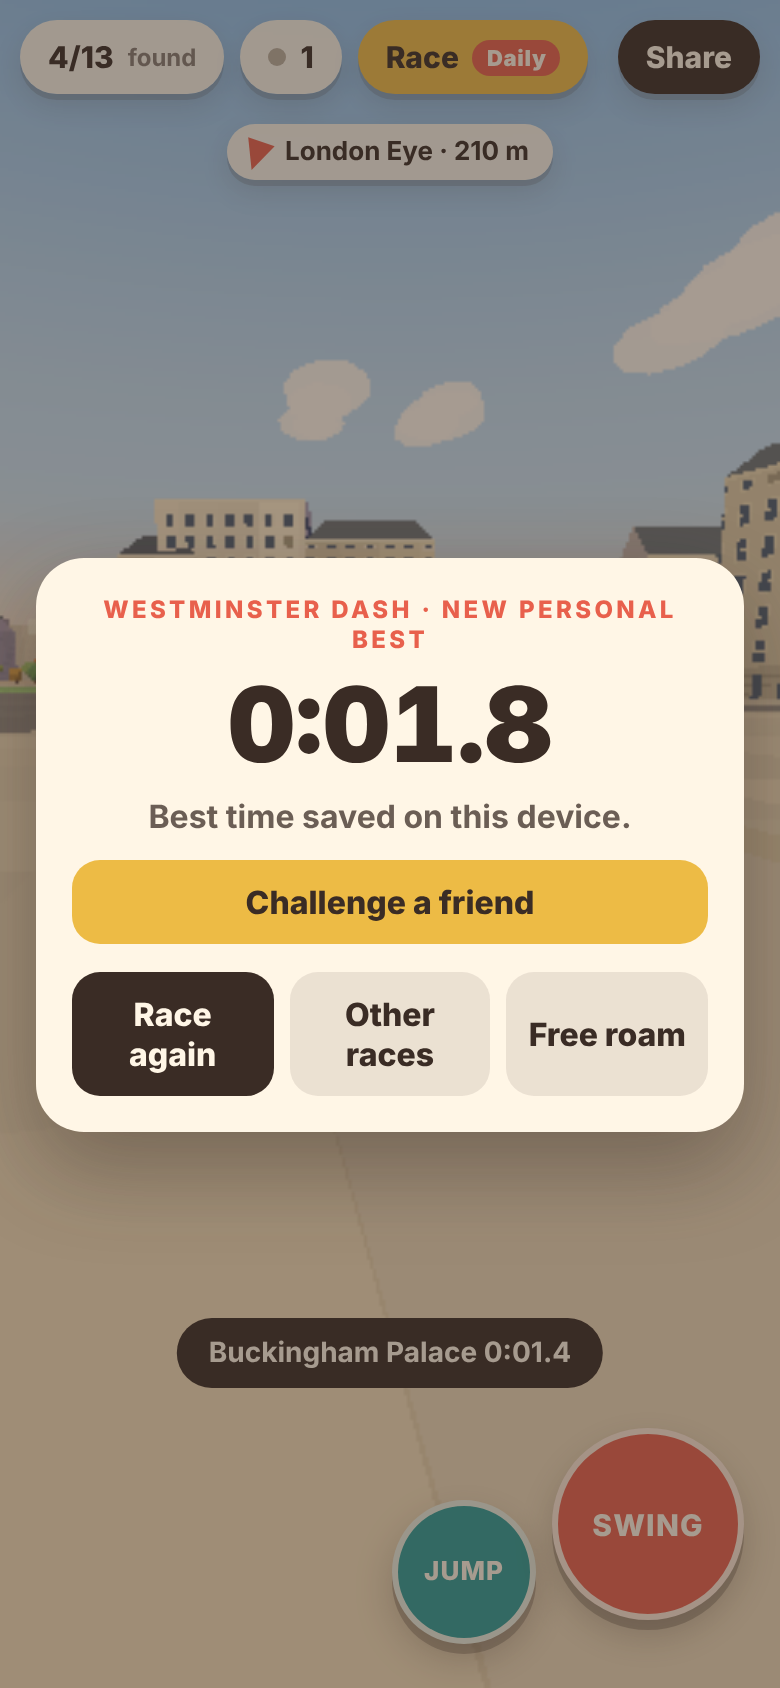
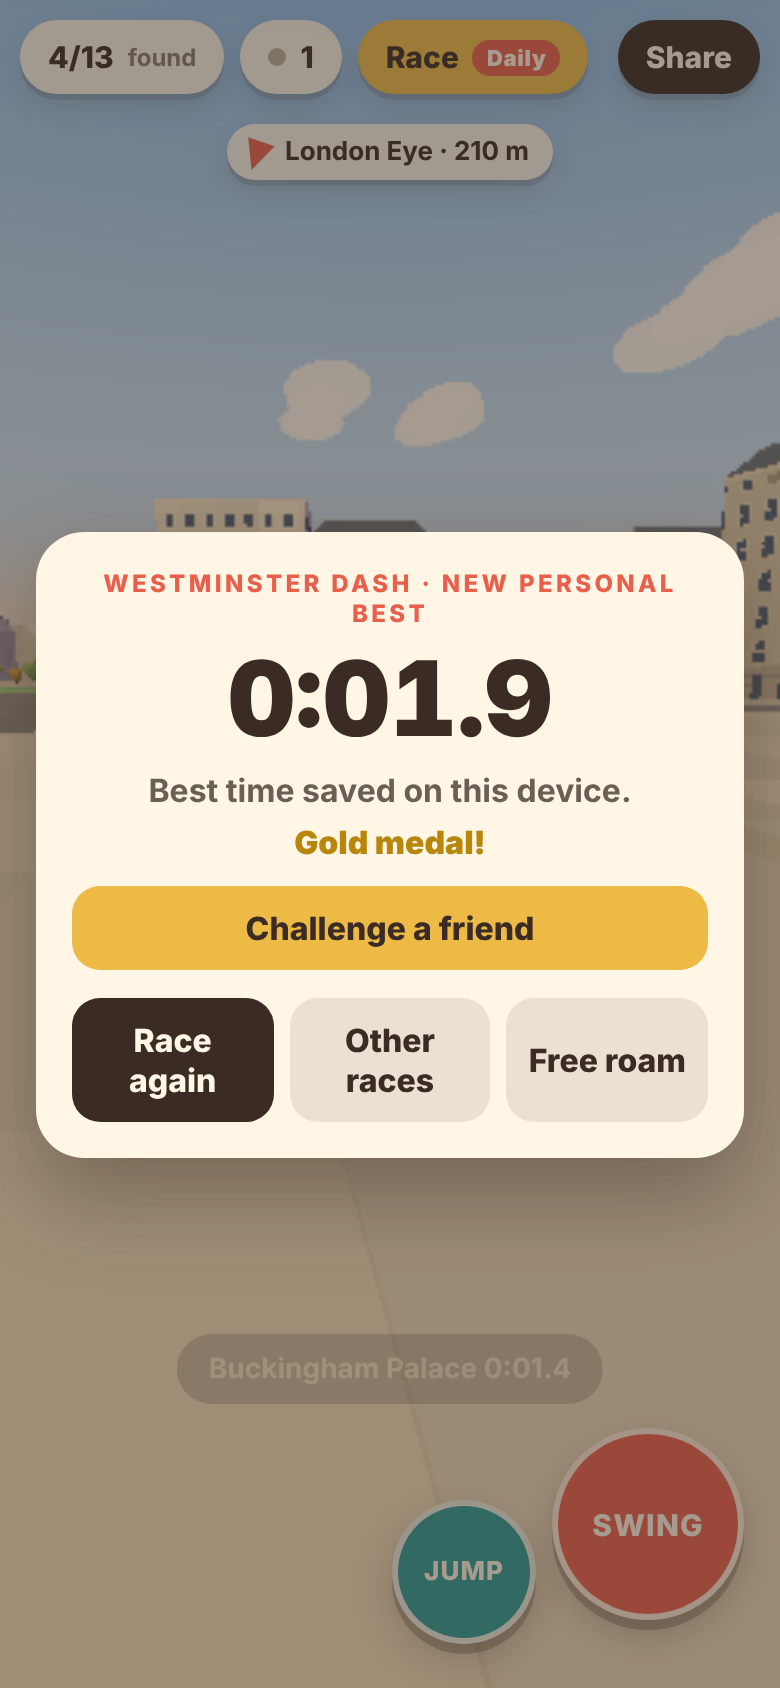
Races: gold, silver and bronze target times on every route
Targets come from each route's straight-line length and a speed per tier
(src/config.ts medals), so the daily gets fair targets too. The finish card
names the medal and the next target; the route list marks the best medal.

Claude-Session: https://claude.ai/code/session_01Fz3Rh1noVBcjt7Gqusxhiy

Changed region(s): [[0.0308, 0.3081, 0.9538, 0.7085], [0.2154, 0.7701, 0.7692, 0.8318]]

diff --git a/tests/medals.test.ts b/tests/medals.test.ts
@@ -1,0 +1,62 @@
+import { describe, expect, it } from 'vitest';
+import { CONFIG } from '../src/config';
+import { Player } from '../src/player/controller';
+import { buildWorld } from '../src/world/city';
+import { LANDMARKS } from '../src/world/data';
+import { ROUTES, Race, dailyRoute, formatTime, medalFor, medalLine, medalTimes, routeLength } from '../src/race';
+
+const westminster = ROUTES.find((r) => r.id === 'westminster')!;
+
+describe('race medals', () => {
+  it('gives every fixed route and a month of dailies ordered, sensible targets', () => {
+    const routes = [...ROUTES];
+    for (let d = 1; d <= 30; d++) routes.push(dailyRoute(`2026-11-${String(d).padStart(2, '0')}`));
+    for (const r of routes) {
+      const len = routeLength(r);
+      const m = medalTimes(r);
+      expect(len).toBeGreaterThan(100);
+      expect(m.gold).toBeLessThan(m.silver);
+      expect(m.silver).toBeLessThan(m.bronze);
+      expect(Number.isInteger(m.gold)).toBe(true);
+      // running flat out in a perfectly straight line must not be enough for silver
+      expect(len / m.silver).toBeGreaterThan(CONFIG.runSpeed);
+    }
+  });
+
+  it('awards the best tier a time beats, inclusive of the target itself', () => {
+    const m = medalTimes(westminster);
+    expect(medalFor(westminster, m.gold)).toBe('gold');
+    expect(medalFor(westminster, m.gold + 0.05)).toBe('silver');
+    expect(medalFor(westminster, m.silver)).toBe('silver');
+    expect(medalFor(westminster, m.bronze)).toBe('bronze');
+    expect(medalFor(westminster, m.bronze + 0.05)).toBeNull();
+  });
+
+  it('the finish line names the medal and the next target to chase', () => {
+    const m = medalTimes(westminster);
+    expect(medalLine(westminster, 1)).toBe('Gold medal!');
+    expect(medalLine(westminster, m.silver)).toBe(`Silver medal · Gold: ${formatTime(m.gold)}`);
+    expect(medalLine(westminster, m.bronze)).toBe(`Bronze medal · Silver: ${formatTime(m.silver)}`);
+    expect(medalLine(westminster, m.bronze + 10)).toBe(`No medal yet · Bronze: ${formatTime(m.bronze)}`);
+  });
+
+  it('a bot that only holds Swing and steers at the next stop earns a medal, but not gold', () => {
+    const world = buildWorld();
+    for (const id of ['westminster', 'river']) {
+      const route = ROUTES.find((r) => r.id === id)!;
+      const p = new Player(world, { x: route.start.x, y: 0, z: route.start.z });
+      const race = new Race({ get: () => null, set: () => {} });
+      race.start(route);
+      for (let i = 0; i < 60 * 200 && race.state !== 'finished'; i++) {
+        const s = race.stop ?? LANDMARKS[0];
+        const yaw = Math.atan2(-(s.x - p.pos.x), -(s.z - p.pos.z));
+        p.step(1 / 60, { mx: 0, my: 1, jump: false, swing: i > 200, camYaw: yaw });
+        race.update(1 / 60, p.pos.x, p.pos.z);
+      }
+      expect(race.state).toBe('finished');
+      const medal = medalFor(route, race.time);
+      expect(medal).not.toBeNull();
+      expect(medal).not.toBe('gold');
+    }
+  }, 120000);
+});

diff --git a/src/main.ts b/src/main.ts
@@ -12,7 +12,7 @@ import { LANDMARKS, SPAWN, type Landmark } from './world/data';
 import { challengeFromHash, decodeChallenge, encodeChallenge, rivalLine, type Challenge } from './challenge';
 import { GhostRecorder, decodeGhost, encodeGhost, ghostPose, liveDelta, splitDelta, type Ghost, type GhostPose } from './ghost';
 import { lookScale } from './settings';
-import { ROUTES, Race, canQuickRestart, dailyRoute, formatTime, raceShareText, roomResultText, routeById, targetResult, targetText, type Route } from './race';
+import { ROUTES, Race, canQuickRestart, dailyRoute, formatTime, medalFor, medalLine, raceShareText, roomResultText, routeById, targetResult, targetText, type Route } from './race';
 import { WATER_Y, groundHeight } from './world/river';
 import { parsePortal, portalRules } from './portal';
 import { AimLine } from './render/aimline';
@@ -174,7 +174,9 @@ const race = new Race(
           : roomTarget && roomTarget.route === routeId
             ? targetResult(roomTarget.who, t, roomTarget.t)
             : '';
-      ui.raceFinished(name, formatTime(t), best !== null ? formatTime(best) : '', isNew, share, !!code, vs);
+      const medal = race.route ? medalLine(race.route, t) : '';
+      const tier = race.route ? (medalFor(race.route, t) ?? '') : '';
+      ui.raceFinished(name, formatTime(t), best !== null ? formatTime(best) : '', isNew, share, !!code, vs, medal, tier);
       refreshDailyBadge();
     },
   },
@@ -243,7 +245,11 @@ const openRaces = () => {
   ui.showRoutes(routes, (id) => {
     const b = race.bestFor(id);
     return b === null ? null : formatTime(b);
-  }, (id) => startRace(routes.find((r) => r.id === id) ?? ROUTES[0]));
+  }, (id) => startRace(routes.find((r) => r.id === id) ?? ROUTES[0]), (id) => {
+    const b = race.bestFor(id);
+    const r = routes.find((q) => q.id === id);
+    return b === null || !r ? null : medalFor(r, b);
+  });
 };
 document.getElementById('race-btn')!.addEventListener('click', openRaces);
 document.getElementById('race-close')!.addEventListener('click', () => ui.hideRoutes());

diff --git a/src/race.ts b/src/race.ts
@@ -207,3 +207,45 @@ export function targetResult(who: string, mine: number, theirs: number): string 
   if (gap === '0.0') return `Dead level with ${who}!`;
   return mine < theirs ? `You beat ${who} by ${gap} s` : `${who} was ${gap} s faster`;
 }
+
+export type Medal = 'gold' | 'silver' | 'bronze';
+const TIERS: Medal[] = ['gold', 'silver', 'bronze'];
+const MEDAL_NAME: Record<Medal, string> = { gold: 'Gold', silver: 'Silver', bronze: 'Bronze' };
+
+/** Metres of straight-line legs a route asks for: start to each stop in turn, minus each stop's radius. */
+export function routeLength(route: Route): number {
+  let d = 0;
+  let x = route.start.x;
+  let z = route.start.z;
+  for (const id of route.stops) {
+    const l = LANDMARKS.find((q) => q.id === id);
+    if (!l) continue;
+    d += Math.max(0, Math.hypot(l.x - x, l.z - z) - l.r);
+    x = l.x;
+    z = l.z;
+  }
+  return d;
+}
+
+/** Target time in whole seconds for each medal on this route (gold is the fastest). */
+export function medalTimes(route: Route): Record<Medal, number> {
+  const len = routeLength(route);
+  const t = (speed: number) => Math.max(1, Math.ceil(len / speed));
+  return { gold: t(CONFIG.medals.gold), silver: t(CONFIG.medals.silver), bronze: t(CONFIG.medals.bronze) };
+}
+
+/** The best medal a time earns on a route, or null if it beats none of the targets. */
+export function medalFor(route: Route, time: number): Medal | null {
+  const m = medalTimes(route);
+  return TIERS.find((tier) => time <= m[tier]) ?? null;
+}
+
+/** The finish-card line: the medal earned and the next target to chase. */
+export function medalLine(route: Route, time: number): string {
+  const m = medalTimes(route);
+  const got = medalFor(route, time);
+  if (got === 'gold') return 'Gold medal!';
+  const next: Medal = got === 'silver' ? 'gold' : got === 'bronze' ? 'silver' : 'bronze';
+  const chase = `${MEDAL_NAME[next]}: ${formatTime(m[next])}`;
+  return got ? `${MEDAL_NAME[got]} medal · ${chase}` : `No medal yet · ${chase}`;
+}

diff --git a/src/ui.ts b/src/ui.ts
@@ -257,7 +257,7 @@ export class UI {
   }
 
   // --- races ------------------------------------------------------------------
-  showRoutes(routes: { id: string; name: string; stops: string[] }[], best: (id: string) => string | null, pick: (id: string) => void): void {
+  showRoutes(routes: { id: string; name: string; stops: string[] }[], best: (id: string) => string | null, pick: (id: string) => void, medal: (id: string) => string | null = () => null): void {
     const ol = $('routes');
     ol.textContent = '';
     for (const r of routes) {
@@ -270,6 +270,11 @@ export class UI {
       const pb = document.createElement('span');
       pb.className = 'pb';
       pb.textContent = best(r.id) ?? 'New';
+      const m = medal(r.id);
+      if (m) {
+        pb.classList.add('medal', m);
+        pb.title = `${m[0].toUpperCase()}${m.slice(1)} medal`;
+      }
       b.append(name, pb, via);
       if (r.id.startsWith('daily-')) {
         li.className = 'daily';
@@ -357,12 +362,16 @@ export class UI {
    * `shareText` shows a button that shares it, labelled for a ghost link
    * when `challenge` is set. `rival` says how the run compares with a friend's.
    */
-  raceFinished(route: string, time: string, best: string, isNew: boolean, shareText = '', challenge = false, rival = ''): void {
+  raceFinished(route: string, time: string, best: string, isNew: boolean, shareText = '', challenge = false, rival = '', medal = '', medalTier = ''): void {
     this.doneShare = shareText;
     $('done-share').hidden = !shareText;
     $('done-share').textContent = challenge ? 'Challenge a friend' : 'Share today’s time';
     $('done-rival').hidden = !rival;
     $('done-rival').textContent = rival;
+    const md = $('done-medal');
+    md.hidden = !medal;
+    md.textContent = medal;
+    md.className = medalTier;
     $('card').classList.remove('on');
     $('done-kicker').textContent = isNew ? `${route} · new personal best` : route;
     $('done-time').textContent = time;

diff --git a/e2e/game.spec.ts b/e2e/game.spec.ts
@@ -337,6 +337,9 @@ test('race: pick a route, count down, take every checkpoint, finish and keep a p
   await expect(page.locator('#race-done')).toBeVisible();
   await expect(page.locator('#done-kicker')).toContainText('new personal best');
   await expect(page.locator('#done-share')).toHaveText('Challenge a friend'); // fixed routes share a ghost too
+  // a teleported run is far inside the gold target
+  await expect(page.locator('#done-medal')).toHaveText('Gold medal!');
+  await expect(page.locator('#done-medal')).toHaveClass('gold');
   await page.screenshot({ path: 'screenshots/race-finish.png' });
   const best = await page.evaluate(() => localStorage.getItem('citywalk.best.westminster'));
   expect(Number(best)).toBeGreaterThan(0);
@@ -344,6 +347,8 @@ test('race: pick a route, count down, take every checkpoint, finish and keep a p
   // the route list now shows that best time
   await page.locator('#done-routes').tap();
   await expect(page.locator('#routes button', { hasText: 'Westminster Dash' }).locator('.pb')).toHaveText(/\d:\d\d\.\d/);
+  await expect(page.locator('#routes button', { hasText: 'Westminster Dash' }).locator('.pb')).toHaveClass(/\bgold\b/);
+  await expect(page.locator('#routes button', { hasText: 'City Sprint' }).locator('.pb')).not.toHaveClass(/medal/); // not raced yet
 
   // the best run was saved as a ghost; racing again replays it alongside you
   const saved = await page.evaluate(() => JSON.parse(localStorage.getItem('citywalk.ghost.westminster') ?? 'null'));

diff --git a/index.html b/index.html
@@ -234,6 +234,12 @@
       #done-best { margin: 0; font-weight: 700; opacity: 0.75; }
       #done-rival { margin: 6px 0 0; font-weight: 900; color: var(--teal); }
       #done-rival[hidden] { display: none; }
+      #done-medal { margin: 6px 0 0; font-weight: 900; }
+      #done-medal[hidden] { display: none; }
+      #done-medal.gold, #routes .pb.gold { color: #b8860b; }
+      #done-medal.silver, #routes .pb.silver { color: #6e7b85; }
+      #done-medal.bronze, #routes .pb.bronze { color: #9a5b2e; }
+      #routes .pb.medal::before { content: '●'; margin-right: 4px; }
       #done-share { margin-top: 12px; width: 100%; padding: 11px 10px; border-radius: 14px; font-weight: 800; background: var(--gold); }
       #done-share[hidden] { display: none; }
       #daily-badge { background: var(--coral); color: var(--cream); border-radius: 999px; padding: 2px 7px; font-size: 11px; font-weight: 900; letter-spacing: 0.03em; }
@@ -343,6 +349,7 @@
         <div class="kicker" id="done-kicker"></div>
         <div id="done-time"></div>
         <p id="done-best"></p>
+        <p id="done-medal" hidden></p>
         <p id="done-rival" hidden></p>
         <button id="done-share" hidden>Share today’s time</button>
         <div class="row"><button class="primary" id="done-again">Race again<span class="key-hint"> (R)</span></button><button id="done-routes">Other races</button><button id="done-close">Free roam</button></div>

diff --git a/src/config.ts b/src/config.ts
@@ -95,6 +95,17 @@ export const CONFIG = {
 
   // --- daily challenge ---------------------------------------------------
   // one generated route per UTC day, the same for every player
+  // Race medals. Each tier is an average speed in m/s over the route's straight-line legs (start →
+  // each stop, minus the stop's radius), so fixed routes and every daily get fair targets without
+  // hand-tuning. Measured 2026-11-23 with a hold-Swing bot that just steers at the next stop:
+  // 7–17 m/s on the routes it finished. Running alone tops out at 11 m/s on a perfect straight
+  // line, so silver and gold need swinging. Times are rounded up to whole seconds.
+  medals: {
+    gold: 18,
+    silver: 12,
+    bronze: 7,
+  },
+
   daily: {
     stops: 4, // landmarks per daily route
     minLeg: 150, // metres: each stop is at least this far from the previous point

diff --git a/DAILY_PROGRESS.md b/DAILY_PROGRESS.md
@@ -2,6 +2,33 @@
 
 Verified work only. Newest first.
 
+## 2026-11-23
+
+**Implemented**
+- **Race medals.** Every race now has gold, silver and bronze target times. The finish card says
+  which medal you earned and the time for the next one ("Silver medal · Gold: 0:35.0"; "Gold
+  medal!" at the top), and the route list marks your best medal beside each best time. Targets
+  come from the route's straight-line length and an average speed per tier (gold 18, silver 12,
+  bronze 7 m/s, in `src/config.ts` `medals`), so the daily route gets fair targets every day
+  without hand-tuning. Gives solo players a goal beyond "beat your own time".
+- Tuning basis: a bot that only holds Swing and steers at the next stop finished routes at 7–17
+  m/s (it got stuck on several dailies). Running alone tops out at 11 m/s in a perfect straight
+  line, so silver and gold need swinging.
+
+**Verified**
+- Build: 0 TS errors. Unit: 120 passed (4 new in `tests/medals.test.ts`: targets ordered on all
+  fixed routes and 30 dailies, running alone cannot reach silver, tier boundaries, finish text,
+  and the hold-Swing bot earns a medal but not gold on Westminster Dash and River Run).
+  Browser: 12 of 12 passed; the race test now checks the finish card shows "Gold medal!" and the
+  route list marks the best time gold (and leaves an unraced route unmarked).
+- Not verified: whether the targets feel fair or motivating to real players, and whether gold is
+  reachable by a skilled human on every daily. Needs a human; tune `medals` in `src/config.ts`.
+
+**Money earned:** £0 (not yet published on a paying channel).
+
+**Next task:** owner playtest (frame-rate readout on, try for gold on a route) and fixes; keep
+watching the multiplayer test in CI.
+
 ## 2026-11-22
 
 **Implemented**

diff --git a/RELEASE.md b/RELEASE.md
@@ -30,6 +30,8 @@ anywhere except the existing GitHub Pages site.
 - Link-preview card (2026-11-21) is checked in the build and the test browser only; how each
   chat app renders it has not been seen. Its address is fixed to the GitHub Pages URL in
   `vite.config.ts` (`PUBLIC_URL`); change it there if the game moves.
+- Race medal targets (2026-11-23) are set from straight-line route length and bot runs, not from
+  human play; some dailies route around buildings or the river and may be harder than others.
 - Frame rate on real phones is unmeasured (tests use software rendering). Players can now see it
   in-game: journal → "Frame rate: shown".
 - A friend who connects just as the game re-joins the room (it does so while you are alone) can

diff --git a/README.md b/README.md
@@ -32,7 +32,7 @@ leave it out.)
 - Fall in the Thames and you are put back on the nearest bank.
 - Tap **0/13 found** for the journal, your name tag, sound, **Back to start**, and to replay the tutorial.
 - **Races:** three timed landmark routes with a countdown, a beacon over the next stop and
-  personal bests saved on your device.
+  personal bests saved on your device. Each route has gold, silver and bronze target times.
 - **Share** opens the native share sheet (or copies the link). Anyone opening
   it joins your room, up to 8 players. When someone in the room finishes a race, everyone
   else sees their time, with a "Race it" button to run the same route.

diff --git a/ROADMAP.md b/ROADMAP.md
@@ -37,6 +37,9 @@ Ordered by impact on getting real players and the first revenue.
 7. **First-run polish**: daily-race card after a first tutorial (done 2026-11-01); "how races
    work" hint on the first countdown (done 2026-11-02); compass hides while the card shows
    (done 2026-11-03); R restarts a race on desktop (done 2026-11-22).
+8. **Race medals** (done 2026-11-23): gold/silver/bronze targets from route length, on the finish
+   card and route list. Needs a human check that gold is hard but reachable; tune `medals` in
+   `src/config.ts`.
 
 ## Next
 
